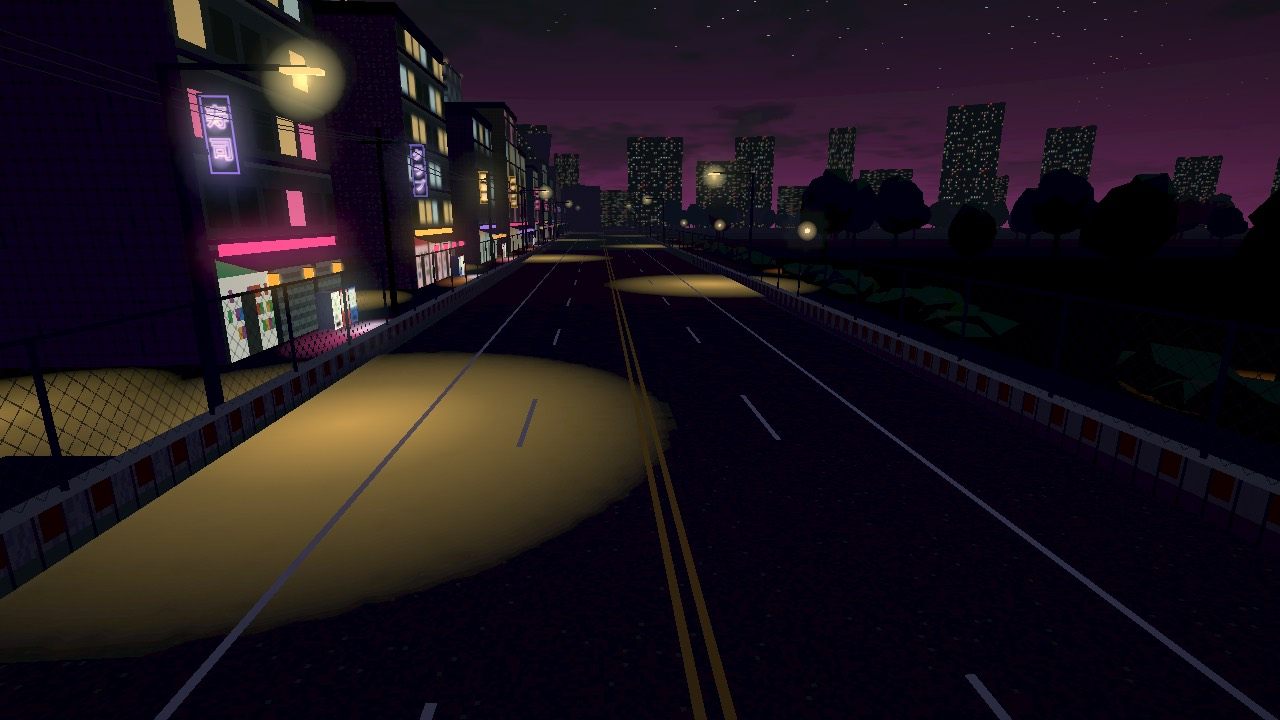
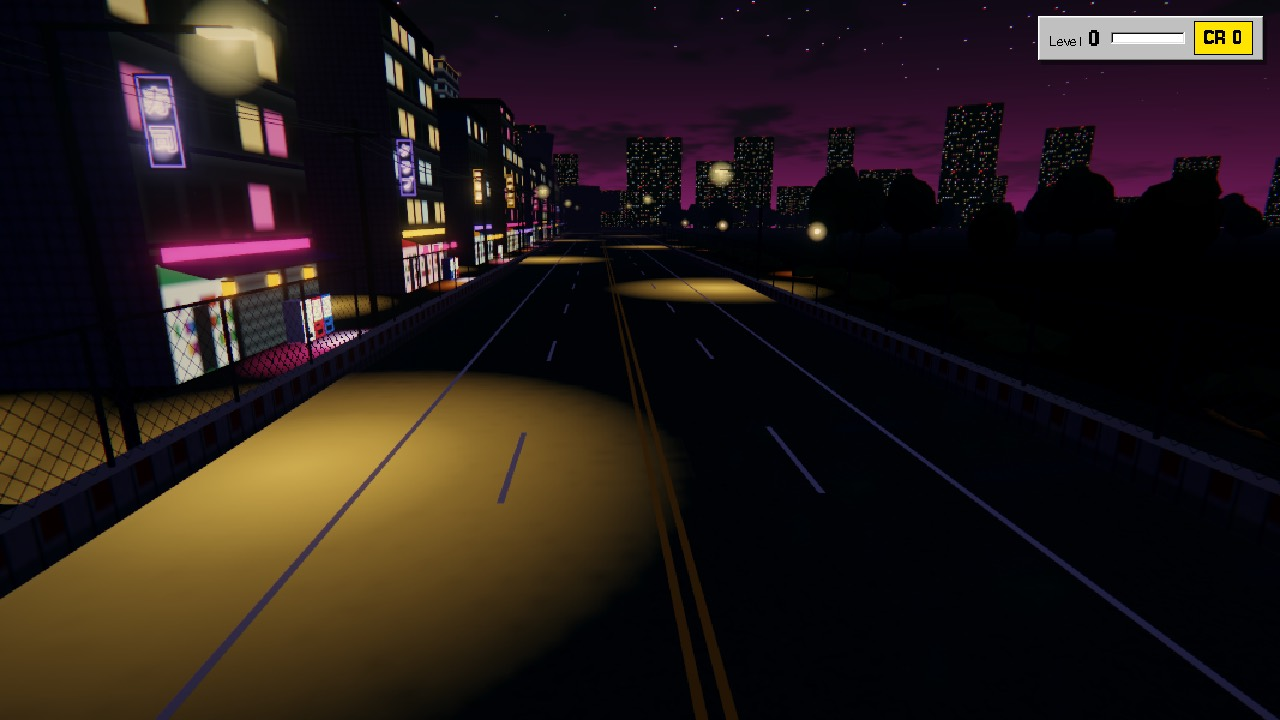
Finish Part 1: tune Hard and Impossible, smoke limits for shorter tracks, stills, docs

diff --git a/src/main.js b/src/main.js
@@ -800,12 +800,16 @@ class SmokeTest {
     if (this.done || (this.t < 20 && this.frames < 4000)) return;
     this.done = true;
     const touchOk = game.save.platform !== 'touch' || (!document.querySelector('#touch').hidden && document.querySelectorAll('#touch .tc').length >= 5);
-    const ok = this.maxKmh > 80 && this.travelled > 300 && this.frames > 30 && touchOk;
+    // The bot drives to the grip, and corner speed goes with its square root.
+    const need = 80 * Math.sqrt(WEATHER[game.weatherId].grip);
+    // A race loses 3 s to the lights, and this bot bumps its way through traffic.
+    const far = game.race ? 200 : 300;
+    const ok = this.maxKmh > need && this.travelled > far && this.frames > 30 && touchOk;
     const out = document.createElement('pre');
     out.id = 'smoke';
     out.textContent = [
       `frames ${this.frames}, sim time ${this.t.toFixed(1)} s, platform ${game.save.platform}, ${game.trackInfo.name}, weather ${game.weatherId}, time ${game.timeId}`,
-      `top speed ${this.maxKmh.toFixed(0)} km/h, distance ${this.travelled} m, gear ${game.vehicle.gearbox.gear}`,
+      `top speed ${this.maxKmh.toFixed(0)} km/h (needs ${need.toFixed(0)}), distance ${this.travelled} m (needs ${far}), gear ${game.vehicle.gearbox.gear}`,
       `render ${game.renderer.width}x${game.renderer.height} (${game.graphicsName}), draw calls ${game.renderer.gl.info.render.calls}`,
       game.save.platform === 'touch' ? `touch controls ${touchOk ? 'shown' : 'MISSING'}` : 'keyboard',
       ok ? 'SMOKE PASS' : 'SMOKE FAIL',

diff --git a/src/race/difficulty.js b/src/race/difficulty.js
@@ -10,7 +10,7 @@
 export const DIFFICULTY = {
   easy: { name: 'Easy', info: 'Relaxed rivals who wait for you', skill: { pace: 0.93, grip: 0.8, brake: 1, mistakes: 2, spread: 1 }, band: { slow: 0.08, push: 0 }, pay: 0.75, start: 4, edge: 1 },
   normal: { name: 'Normal', info: 'A fair fight', skill: { pace: 0.975, grip: 0.84, brake: 1.1, mistakes: 1, spread: 0.7 }, band: { slow: 0.03, push: 0.02 }, pay: 1, start: 6, edge: 1 },
-  hard: { name: 'Hard', info: 'Quick rivals, and nobody waits', skill: { pace: 1, grip: 0.9, brake: 1.2, mistakes: 0.5, spread: 0.3 }, band: { slow: 0, push: 0.03 }, pay: 1.3, start: 8, edge: 1 },
-  impossible: { name: 'Impossible', info: 'Hardly a mistake, and more grip than you', skill: { pace: 1, grip: 0.95, brake: 1.3, mistakes: 0.1, spread: 0.15 }, band: { slow: 0, push: 0.03 }, pay: 1.75, start: 8, edge: 1.05 },
+  hard: { name: 'Hard', info: 'Quick rivals, and nobody waits', skill: { pace: 1, grip: 0.87, brake: 1.15, mistakes: 0.5, spread: 0.3 }, band: { slow: 0, push: 0.03 }, pay: 1.3, start: 8, edge: 1 },
+  impossible: { name: 'Impossible', info: 'Hardly a mistake, and more grip than you', skill: { pace: 1, grip: 0.92, brake: 1.25, mistakes: 0.1, spread: 0.15 }, band: { slow: 0, push: 0.03 }, pay: 1.75, start: 8, edge: 1.05 },
 };
 export const getDifficulty = (id) => DIFFICULTY[id] || DIFFICULTY.normal;

diff --git a/CLAUDE.md b/CLAUDE.md
@@ -38,7 +38,7 @@ way they are, HANDOFF.md for how the last session ended. BRIEF.md is the origina
 - Play: `./run.sh` (opens http://localhost:8793). Add `?mute` when testing so no sound plays.
   `?device=computer` or `?device=touch` skips the menus and drives. `?weather=rain|fog` picks
   the weather, `?track=underground` the track, `?car=countach-qv` the car, `?screen=tracks|setup|race|garage|shop|career`
-  opens a menu screen, `?race` (with `?device`) races seven AI cars, `&difficulty=hard` picks how hard. `?debug` opens the F3 panel.
+  opens a menu screen, `?race` (with `?device`) races seven AI cars, `&difficulty=hard` picks how hard, `?mode=trial|practice` (with `?device`) picks the session. `?debug` opens the F3 panel.
 - Look at it without opening a window: `node tools/shot.mjs "screen=garage&car=countach-qv" out.png`
   (headless Chrome; see the top of the file for several shots, sizes and running JavaScript).
 - Smoke test (headless Chrome: computer/clear, iPad/rain, the Countash on the Underground,
@@ -60,15 +60,15 @@ way they are, HANDOFF.md for how the last session ended. BRIEF.md is the origina
 - `src/main.js` start-up, game states (menu, driving, paused), smoke-test bot
 - `src/core/` fixed-step loop, graphics presets, effect list and URL switches
 - `src/input/` the shared control state, keyboard (rebindable), touch (joystick, buttons, layout editor), gamepad
-- `src/physics/` car physics (`vehicle.js`), gearbox, wall collisions, weather grip table (with weather patches)
+- `src/physics/` car physics (`vehicle.js`), gearbox, wall collisions, two cars touching (`knocks.js`), weather grip table (with weather patches)
 - `src/vehicles/` car list with specs, prices and tiers (`cars.js`), looks: paint, finish, decals, wheels, ride height (`looks.js`), Feel on top of a car's numbers (`tuning.js`), ratings (`stats.js`), car bodies from profile curves (`body.js`), each car's shape and details (`car-model.js`), cars from GLBs (`captured.js`, files in `assets/cars/`: `<id>-lite.bin` loads at start-up, `<id>.bin` with every triangle replaces it on computers), real 3D rims (`wheels.js`), the cabin seen from the driver's seat (`cabin.js`), the bonnet and engine bay (`engine-bay.js`)
 - `src/world/` track centre-line maths and the turtle that draws tracks (`track-path.js`), the track list and points, the asset library and Placer (`assets.js`), shared scenery pieces (`scene-kit.js`), the harbour scenery and the city backdrop (`track-scene.js`), the Underground (`underground.js`, `underground-scene.js`), Parabolica Street (`parabolica.js`, `parabolica-scene.js`), the garage scene (`garage.js`), time of day (`time-of-day.js`), weather visuals and snow (`weather.js`)
 - `src/graphics/` renderer with colour grade, dither, bloom (FFT convolution on High, a blur chain on Medium), lens dirt and reflections, speed blur with a cockpit mask and the low sun's glare, painted textures, vector pictures turned into pixel bitmaps (`pixel-art.js`), effects (sprite smoke, spark streaks, skid marks), paint reflections (`reflections.js`), the sky dome shader (`sky.js`)
-- `src/cameras/` chase and cockpit cameras, camera shake
+- `src/cameras/` chase and cockpit cameras, camera shake, `speedRush` (the one number for how fast it should feel)
 - `src/audio/` engine, tyres, wind, impacts, backfires, rain and night ambience (`audio.js`), menu sounds (`ui-sounds.js`), all synthesised
-- `src/race/` the racing line (`racing-line.js`), AI drivers (`ai-driver.js`), the four difficulties (`difficulty.js`), picking and tuning the rivals (`opponents.js`), the race manager: grid, countdown, laps, places (`race.js`), the rival cars on screen (`race-view.js`)
+- `src/race/` the racing line (`racing-line.js`), AI drivers (`ai-driver.js`), the four difficulties (`difficulty.js`), picking and tuning the rivals (`opponents.js`), the race manager: grid, countdown, laps, places, slipstream (`race.js`), Time Trial timing and its ghost (`ghost.js`), the rival cars and ghost on screen (`race-view.js`)
 - `src/career/` levels, pay and the events (`career.js`), the story scenes (`story.js`)
-- `src/ui/` screens (home, race settings, results, loading into a race, pause), the Career screen (`career-screen.js`), the shop (`shop.js`), car cards (`car-cards.js`), story scenes (`cutscene.js`), the start-up and loading boot text (`boot-log.js`, a plain script), loading tips (`tips.js`), the asset library page (`library.js`), the garage screen (`garage.js`), the ratings display (`stats-view.js`), settings tabs, HUD rev counter and minimap, debug panel (F3), Feel panel (F4)
+- `src/ui/` screens (home, race settings, results, loading into a race, pause), the Career screen (`career-screen.js`), the shop (`shop.js`), car cards (`car-cards.js`), story scenes (`cutscene.js`), the start-up and loading boot text (`boot-log.js`, a plain script), loading tips (`tips.js`), the asset library page (`library.js`), the garage screen (`garage.js`), the ratings display (`stats-view.js`), settings tabs, HUD rev counter, minimap, race sheet and Time Trial panel, debug panel (F3), Feel panel (F4)
 - `src/save/` versioned localStorage save (version 6: career, owned cars, one look per car; migrates 1 to 5)
 - `tools/` the foundry (`foundry/`: sheet tracer, builder, score, one blueprint per car in `foundry/cars/`), car capture (`capture-car.mjs`, each car's recipe in `car-recipes.mjs`), eight-angle car pictures (`turnaround.mjs`), smoke test, driving bench, AI bench (`ai-bench.mjs`), career bench (`career-bench.mjs`), art (`car-cards.mjs`, `story-art.mjs`, `story-paint.mjs`, `pixel-bake.mjs`), headless screenshots (`shot.mjs`), the race loading stills (`loading-stills.sh`, writes `assets/loading/`)
 

diff --git a/STATE.md b/STATE.md
@@ -1,25 +1,29 @@
 # NIGHTSHIFT: state
 
-_Last updated 2026-10-31, end of session 15. Signed off by David. The career is merged and live: `main` is the live site, nothing is on a branch._
+_Last updated 2026-11-01, session 16. Part 1 of Arlo's notes (racing) is merged and live; David asked for it to be pushed when done._
 
 ## Where we are
-The game is a career now. Street is complete: 24 events, the story to level 100, eight-car races on four difficulties, CR, XP, the shop, a looks-only garage, the new teal look, slightly pixelated Medium and High. Then "to be continued".
+Arlo played it. Part 1 of his notes is live: real car-to-car knocks, shorter and narrower Starter and Underground, more speed feel, smarter rivals with hidden styles, Race / Time Trial / Practice with a ghost, an F1-style race sheet, a wider map. The career is otherwise as it was.
 
 ## Next
-Put it in front of Arlo. Watch where he first gets stuck, and whether Normal is fair: the difficulties were set on the bench, never by a person.
-Then GT3: it needs car models from David, and more tracks would help most after that.
+Part 2: the UI rework. Black and titanium base; white, amber and teal; no pink, no pixel look; layouts from David's references (not their colours); one list of colours and fonts so the next change is one file. The noticeboard once per update.
+Part 3: Johnny's sprite sheet and bounce, the story rewrite, your racer, phone, laptop, one-race upgrades, NOS. Rebalance pay here.
+GT3: not yet (David).
 
 ## Open with David
-- GT3 and Formula cars: which models, and when? Formula also needs open-wheel handling and cockpits.
-- Is it "Johnny"? He typed "jhonny"; spelled the usual way until he says.
-- Guesses (session 15): rival level rule (event level, or 30 under your car); Skyliner and Mustank prices; event names and order; pay and XP; replay pay; all story writing; Johnny being from Yokohama; Little Tokyo on the harbor; the scout Aoi; everyone's faces; Medium 480 and High 600 lines; difficulty pace; start positions; Race pay.
-- The Subaru's source: no author or licence. It is live on David's decision; credit it when known.
+- Does the racing feel right? Roar, shake and rival pace are set by numbers; only a person can judge them. F4 > Camera: speed feel turns all the speed effects up or down together.
+- Hard: a limit bot from last finishes 4th to 7th. Is that too hard for a person?
+- Guesses (session 16): style numbers; 30% slipstream; Underground 1.46 km; ghost is best lap; pay left alone (Street 5.3 hours, was 6.2).
+- Guesses (session 15): rival level rule; Skyliner and Mustank prices; event names and order; pay and XP; replay pay; the scout Aoi; everyone's faces; Medium 480 and High 600 lines; start positions; Race pay.
+- The Subaru's source: no author or licence. Live on David's decision; credit it when known.
 - Mustank: its real sponsor livery now shows on a shop card; replace with near-miss art.
-- Guesses (older): Impreza 146 hp and four-wheel drive; "Late 90s"; Countash numbers; near-miss names; Mustank seat and cabin; dial size; map zoom; feel of the slower cars; handbrake lever; Parabolica's gold lamps; sun glare; engine sounds; tips' wording; rim sizes.
+- Guesses (older): Impreza 146 hp and four-wheel drive; "Late 90s"; Countash numbers; near-miss names; Mustank seat and cabin; dial size; feel of the slower cars; handbrake lever; Parabolica's gold lamps; sun glare; engine sounds; tips' wording; rim sizes.
 
 ## Known rough edges
-- Only the player has engine sound, smoke and sparks. Rivals use the parked model, so they look plainer up close.
-- Slow-tuned rivals sometimes tangle in the Parabolica chicane and get put back on the road.
+- Rivals touch the walls more on Hard on the narrow Starter (about 2 light touches a car a lap in traffic), and on Impossible more still. None needed putting back.
+- At speed the stars streak with the motion blur.
+- Story art of the docks and the grid still shows the old, wider Starter Track (redo in Part 3).
+- Only the player has engine sound, smoke and sparks. Rivals use the parked model.
 - Three tracks across a whole career repeat; weather, time and rivals vary them.
 - Money has nothing to buy once you own the Countash.
 - iPad and touch never tried on a real device. Mustank: amber lamps, stub at the right pillar, modern dash.

diff --git a/DECISIONS.md b/DECISIONS.md
@@ -167,3 +167,16 @@ One line each, newest last.
 - 2026-10-31: Shop and car pick use the same card; pictures rendered straight from the 3D scene with no post effects, on no background.
 - 2026-10-31: The Multiplayer tile and the Drive screen are gone. "F1" is called Formula on screen (real brand; David agreed). Back on track: R, or the pause menu.
 - 2026-11-01: David signed off session 15 (the career) and it is live on main.
+- 2026-11-01: Car-to-car knocks rebuilt (src/physics/knocks.js). The old code treated each car as a wall for the other, so a rear-ender lost its whole speed and the car in front felt nothing. Now true boxes, shared by closing speed: a rear end 15 km/h quicker keeps 94% of its speed and shoves the other car on.
+- 2026-11-01: Starter Track redrawn with `turtle`: 1.2 km (was 1.93), 9 m wide (was 12), open corners for slow cars. Underground 1.46 km (was 2.46; 1.6 was the aim), 10 m wide (was 12.6). Parabolica unchanged. Bot lap in the Impreza, Starter: 88 s to 58 s.
+- 2026-11-01: Speed feel: one number, `speedRush` (nothing at 60 km/h, nearly all by 160), drives camera, shake, body shake and blur, with one slider on the F4 panel (fix to the cause of repeated feel notes). Blur now 80 to 180 km/h, overturning 140 to 280. Body shake is looks only.
+- 2026-11-01: Engine roar: flat out at speed the engine is 3.5 dB louder (measured offline), plus road rumble and tyre roar. Nobody at Claude's end can hear it; David's call.
+- 2026-11-01: Rivals think a few times a second, commit to overtakes, keep a lane alongside, cover the inside, and get a hidden random style: aggressive, defensive or speeder (8% more power, less corner speed). Max is always aggressive.
+- 2026-11-01: Slipstream: up to 30% less drag tucked in within 30 m. For everyone, the player too.
+- 2026-11-01: Difficulties set against a limit car (about 45 s on Starter at level 510): Easy +15%, Normal +8%, Hard +4%, Impossible +1% on median lap. A new bench test, the hunter, starts a limit car in the player's slot: on Hard it gains 0 to 2 places on lap one (Arlo gained 7).
+- 2026-11-01: Race settings has a dropdown: Race, Time Trial, Practice. The ghost is your best clean lap, not your previous one ("constantly beating your score"), saved per track and car, about 10 KB each. Back on track spoils a lap.
+- 2026-11-01: Race strip replaced by an F1-style sheet on the left. It is already black, titanium, amber and teal in a clean font, ahead of the UI rework (Part 2).
+- 2026-11-01: Map zoom is a setting: 350, 500 (default), 800 m. Third note about it, so now it is David's to set. The car sits lower, at 72% down.
+- 2026-11-01: Max: black with red stripes, not pink (David). GT3 cars are not being added yet (David).
+- 2026-11-01: Answers for Part 3 (David): the backstory is just data analysis, rewrite the story to fit, drop the dock work; Aoi offers a seat and you sign only with Johnny as engineer; the laptop's NOS row may name its key; upgrades are career only, one buy per race, kept on a restart; a 3 s grid scene before the laptop; Parabolica's pink neon stays in the world.
+- 2026-11-01: Smoke test limits follow the shorter tracks: top speed needed is 80 km/h times the square root of the weather's grip (the bot drives to the grip; rain needs 69), and a race needs 200 m, not 300 (3 s of lights, and the bot bumps through traffic). Replayed in Node first: both failures were the old limits, not the game.

diff --git a/SPEC.md b/SPEC.md
@@ -17,7 +17,8 @@
    paint shines with the lights round it, so even a black car shows its shape.
 7. **A garage worth coming back to**: a lock-up workshop with the car on a turntable, where you
    look at the cars you own and make them yours. Looks only: nothing there changes how a car drives.
-8. **Cruising is allowed.** Race mode with no rivals is free driving.
+8. **Three ways to drive.** The race settings screen has a dropdown: Race; Time Trial, endless laps
+   against a ghost of your best lap, saved per track and car; Practice, just you and the road.
 9. **A career worth finishing.** From the docks to the top: Street (levels 0-100), GT3 (100-150),
    Formula (150-200 and on). Every race pays, you can never lose money, and cars cost real effort
    (about 50 races and 6 hours to finish Street). Told in short pixel-art scenes.
@@ -43,7 +44,8 @@ references (2026-10-31). The bevels and pixel fonts of the first; the layout and
 - Meters are block progress bars. Tips are pale yellow tooltips.
 - HUD: a round rev dial at the bottom centre, ring of blocks with gear and speed inside, in the
   same grey, green and red; and a teal map with no frame, its corners fading out (David, 2026-10-31).
-  In a race, a strip along the top: place, lap, lap time, best lap, the gaps to the cars either side.
+  In a race, an F1-style sheet on the left: place, who moved, name, gap to the leader, last lap;
+  your row amber, the fastest lap teal (Arlo's notes, 2026-11-01). The map shows about 500 m (Settings > Map zoom) with your car low on it.
 - Behind the menus: the 3D scene, except the desk screens (Career, Shop, Settings).
 - Japanese: on screen titles and in the world only, never on buttons or rows.
 - Motion: quick and stepped. Lists slide in when a screen or tab opens, never on every click.

diff --git a/HANDOFF.md b/HANDOFF.md
@@ -1,15 +1,22 @@
-# Hand-off: end of session 15 (2026-10-31)
+# Hand-off: end of session 16 (2026-11-01)
 
 ## Repo state
 - On `main`, everything committed and pushed; no other branches. `main` is the live site. Next work goes on a new branch; merge only when David signs off (he says "push" for merge everything and push).
 
 ## Read first
-`CLAUDE.md`, `STATE.md`, the last 15 lines of `DECISIONS.md`.
+`CLAUDE.md`, `STATE.md`, the last 15 lines of `DECISIONS.md` (they include David's answers for Part 3).
 
 ## What comes next
-1. Ask David the questions in STATE.md, starting with the GT3 and Formula cars.
-2. If he brings notes from playing, or from watching Arlo, use `/notes` first.
-3. Tune difficulty by people playing, not the bench.
+1. Ask David how Part 1 drives, and if he has Arlo's reaction.
+2. Part 2, the UI rework, then Part 3, story, phone and laptop. Both are in the plan of session 16; the briefs are his notes, kept in `STATE.md` under Next.
+3. Use `/notes` for any new notes.
+
+## How the racing works
+- `Race.step`: slipstream, drivers, walls, then `knocks()` (`physics/knocks.js`). Drivers think every 0.1 to 0.24 s (`AIDriver.think`) and steer to `plan`, an offset across the road.
+- A style is a line in `STYLES` in `ai-driver.js`; `pickField` hands them out.
+- Set difficulty on `tools/ai-bench.mjs`: the hunter table at the end is the number to watch.
+- `raceSetup.mode` is 'race', 'trial' or 'practice'. A Time Trial is `this.trial` in `main.js`, with no `Race`.
+- Speed effects read `speedRush` in `cameras.js`; the audio has its own `roar` from speed.
 
 ## How the career works
 - `src/career/career.js` has the events, levels and pay; `node tools/career-bench.mjs` proves them and checks every event fits its track.

diff --git a/CHANGELOG.md b/CHANGELOG.md
@@ -1,5 +1,15 @@
 # Changelog
 
+## Arlo's notes, part 1: racing (2026-11-01)
+- Bumping another car no longer cuts your speed: knocks are shared between the two cars.
+- Starter Track and Underground are shorter, narrower and faster.
+- More speed: earlier motion blur, stronger camera shake, the car shakes, the engine roars, the road rumbles.
+- Rivals are smarter: they pick a side to pass, defend, keep their lane, and each has a hidden driving style. All four difficulties are reset, and Hard is much harder.
+- Slipstream behind other cars.
+- Race settings has a dropdown: Race, Time Trial with a ghost of your best lap, Practice.
+- An F1-style race sheet on the left replaces the top strip.
+- The map shows more road ahead, with a Map zoom setting. Max's stripes are red.
+
 ## Career (2026-10-31)
 - Career mode: 24 Street events in five acts, a story with Johnny, Max and Aoi in pixel-art scenes, CR and XP, levels 0 to 100. To be continued.
 - Real races: eight cars, 1 to 10 laps, four difficulties, start lights, places, gaps, results, Back on track.
